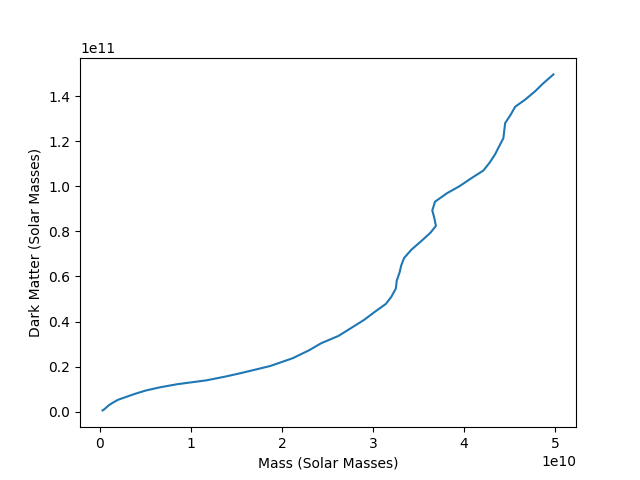
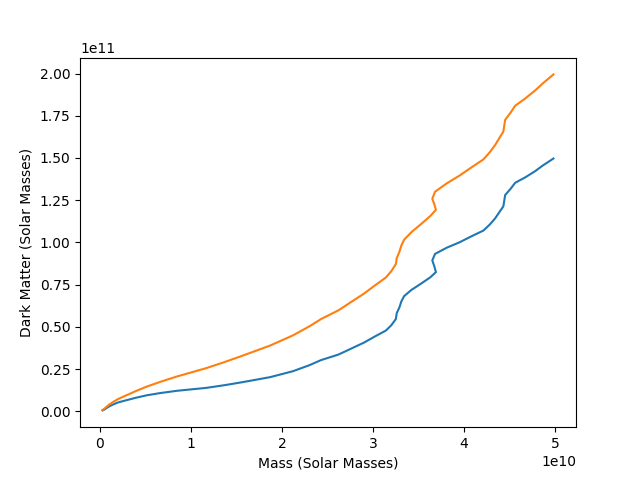
new graph

diff --git a/main3.py b/main3.py
@@ -14,14 +14,18 @@ predictV=[]
 p=100*(10**6)
 r=1.87
 MassDM=[]
+MaddDM=[]
 
 for line in f:
   Mass.append(float(line.split("\t")[4]))
   MassDM.append(4*math.pi*p*(r**2)*((float(line.split("\t")[0]))-(r*math.atan((float(line.split("\t")[0]))/r))))
+  MaddDM.append((float(line.split("\t")[4]))+(4*math.pi*p*(r**2)*((float(line.split("\t")[0]))-(r*math.atan((float(line.split("\t")[0]))/r)))))
 
 x=np.array(Mass)
 y=np.array(MassDM)
+z=np.array(MaddDN)
 plt.plot(x,y)
+plt.plot(x,z)
 plt.xlabel('Mass (Solar Masses)')
 plt.ylabel('Dark Matter (Solar Masses)')
 plt.show()
